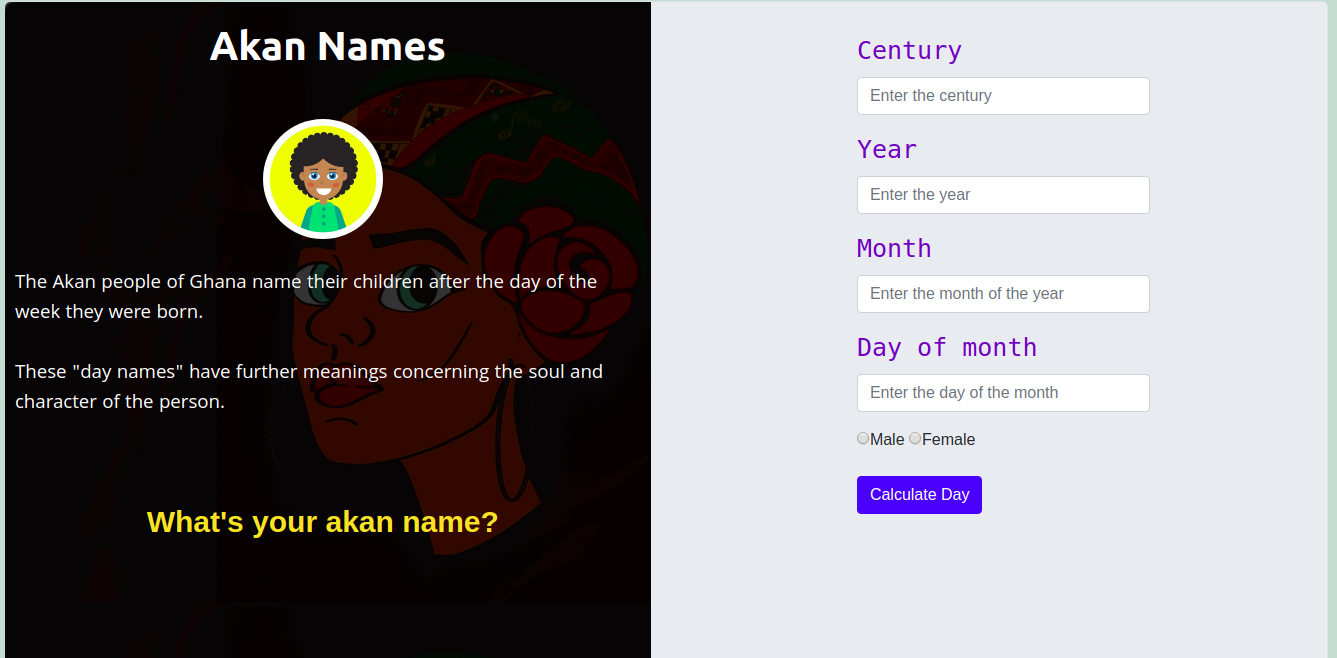
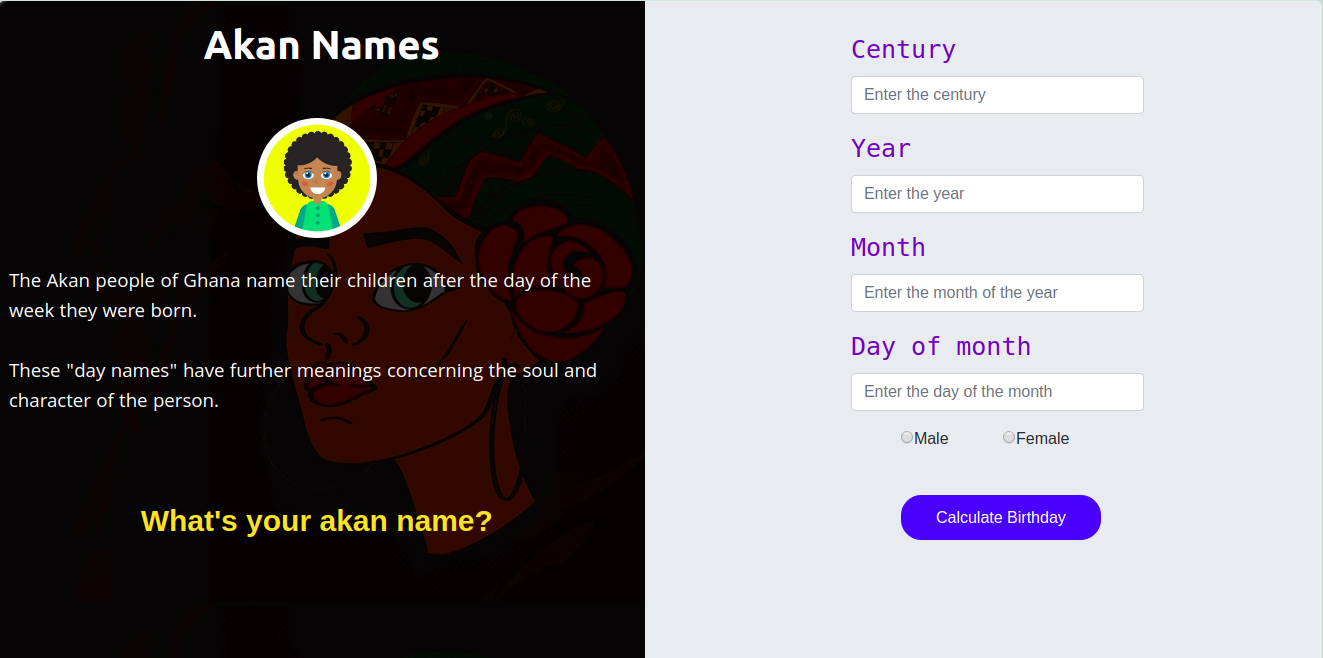
Make final changes to the layout and styling.

diff --git a/index.html b/index.html
@@ -46,8 +46,8 @@
                       <input type="radio" class="genders labels" value="female" id="rad1" name="rads" required>Female
                     </form>
                     <br>
-                    <a href="#result"><button type="button" name="button" class="btn btn-primary mb-2" onclick="checkDayOfWeek();">Calculate Day</button></a>
-                    <h1 class="text-center" id="result"></h1>
+                    <a href="#result"><button type="button" name="button" class="btn btn-primary mb-2" onclick="checkDayOfWeek();">Calculate Birthday</button></a>
+                    <h1 id="result"></h1>
             </div>
           </div>
         </div>

diff --git a/css/styles.css b/css/styles.css
@@ -48,6 +48,16 @@ h1{
   font-size: 20px;
   font-family: 'Khula', sans-serif;
 }
+.genders{
+  margin-left: 50px;
+}
+.btn{
+  margin-left: 50px;
+  margin-top: 20px;
+  height: 45px;
+  width: 200px;
+  border-radius: 20px;
+}
 .q-text{
   color: #fdd043;
   font-size: 30px;
@@ -56,8 +66,8 @@ h1{
 }
 #result{
   margin-top: 30px;
-  color: #fdd043;
-  font-size: 38px;
+  color: #000000;
+  font-size: 28px;
 }
 .rounded-circle{
   margin-left: 40%;
